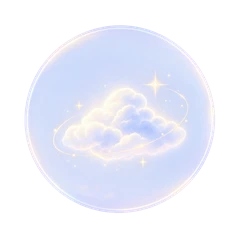
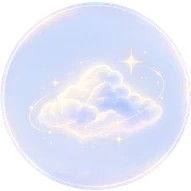
我的内在指南(手机):卡片小圆图本身就是圈,不再圈中套圈
- ic-moon/sun/cloud/star 裁到刚好贴着圆边、圆外透明
- 拿掉 .ic 外罩的描边与光圈,只留淡落影;尺寸 44→52px

Claude-Session: https://claude.ai/code/session_01KWTtJBbV1tTkbqudQevH8t

diff --git a/app.html b/app.html
@@ -4000,7 +4000,7 @@
        标题-说明-箭头位置完全统一,只有背景实景跟渐层不同。 */
     #dpage.compass-page .cp-ent{
       position:relative;order:10;overflow:hidden;
-      display:grid;grid-template-columns:26px 46px 1fr 34px;
+      display:grid;grid-template-columns:24px 52px 1fr 34px;
       grid-template-areas:"no ic zh arrow" "no ic sit arrow";
       column-gap:12px;row-gap:0;align-items:center;align-content:center;
       /* 固定高度:说明一行或两行,四张卡都一样高(两行 + 上下内距刚好
@@ -4045,15 +4045,13 @@
       font-variant-numeric:lining-nums tabular-nums
     }
     #dpage.compass-page .cp-ent .gl{display:none}
-    /* 四个方向共用同一套「章节点」:固定尺寸、固定描边、固定光晕、
-       固定透明度,只有图里的 symbol(月/日/云/星)不一样——不靠各自
-       素材自带的边框/发光,统一裁成正圆,外面再罩一圈站内自己画的
-       细描边跟柔光,四张卡才会一眼看出是同一套系统。 */
+    /* 四个方向的小圆图:素材本身就是那个圈(自带金边),已裁到刚好
+       贴着圆边,所以这里不再外罩描边/光圈,只给一点很淡的落影。
+       四张同尺寸、同位置,只有圆里的 symbol(月/日/云/星)不同。 */
     #dpage.compass-page .cp-ent .ic{
-      display:block;grid-area:ic;grid-row:1/3;width:44px;height:44px;
-      border-radius:50%;object-fit:cover;
-      box-shadow:0 0 0 1px rgba(191,163,124,.34),0 0 0 5px rgba(255,250,240,.55),
-        0 2px 8px -2px rgba(154,106,52,.22)
+      display:block;grid-area:ic;grid-row:1/3;width:52px;height:52px;
+      border-radius:50%;object-fit:contain;
+      filter:drop-shadow(0 3px 6px rgba(154,106,52,.16))
     }
     #dpage.compass-page .cp-ent .arrow{
       display:flex;align-items:center;justify-content:center;
